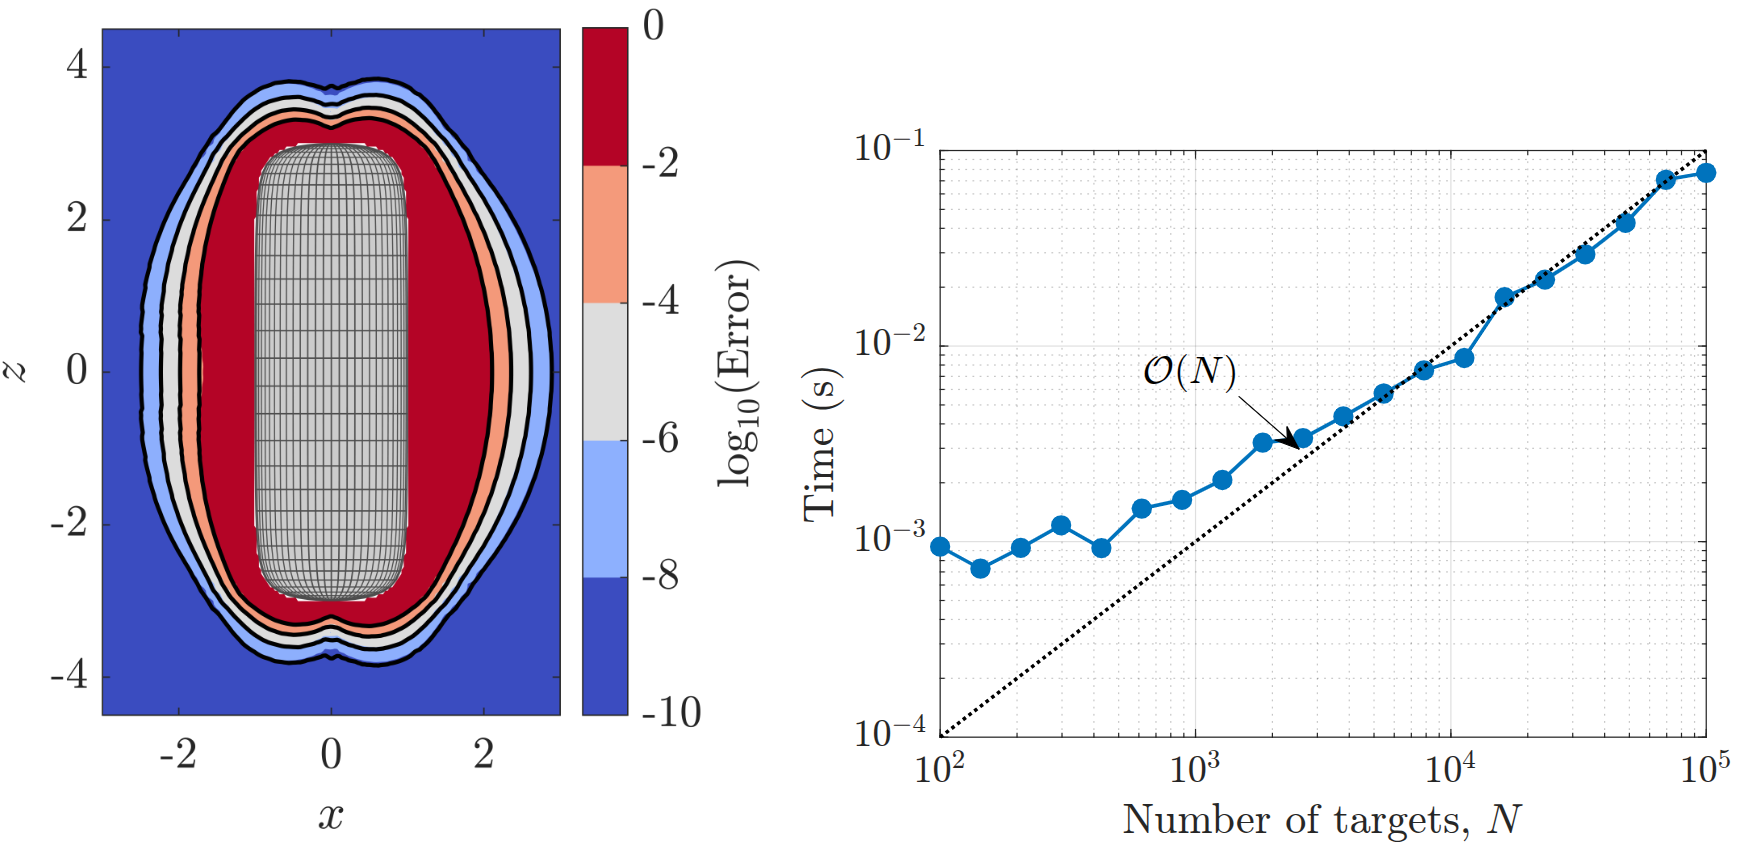
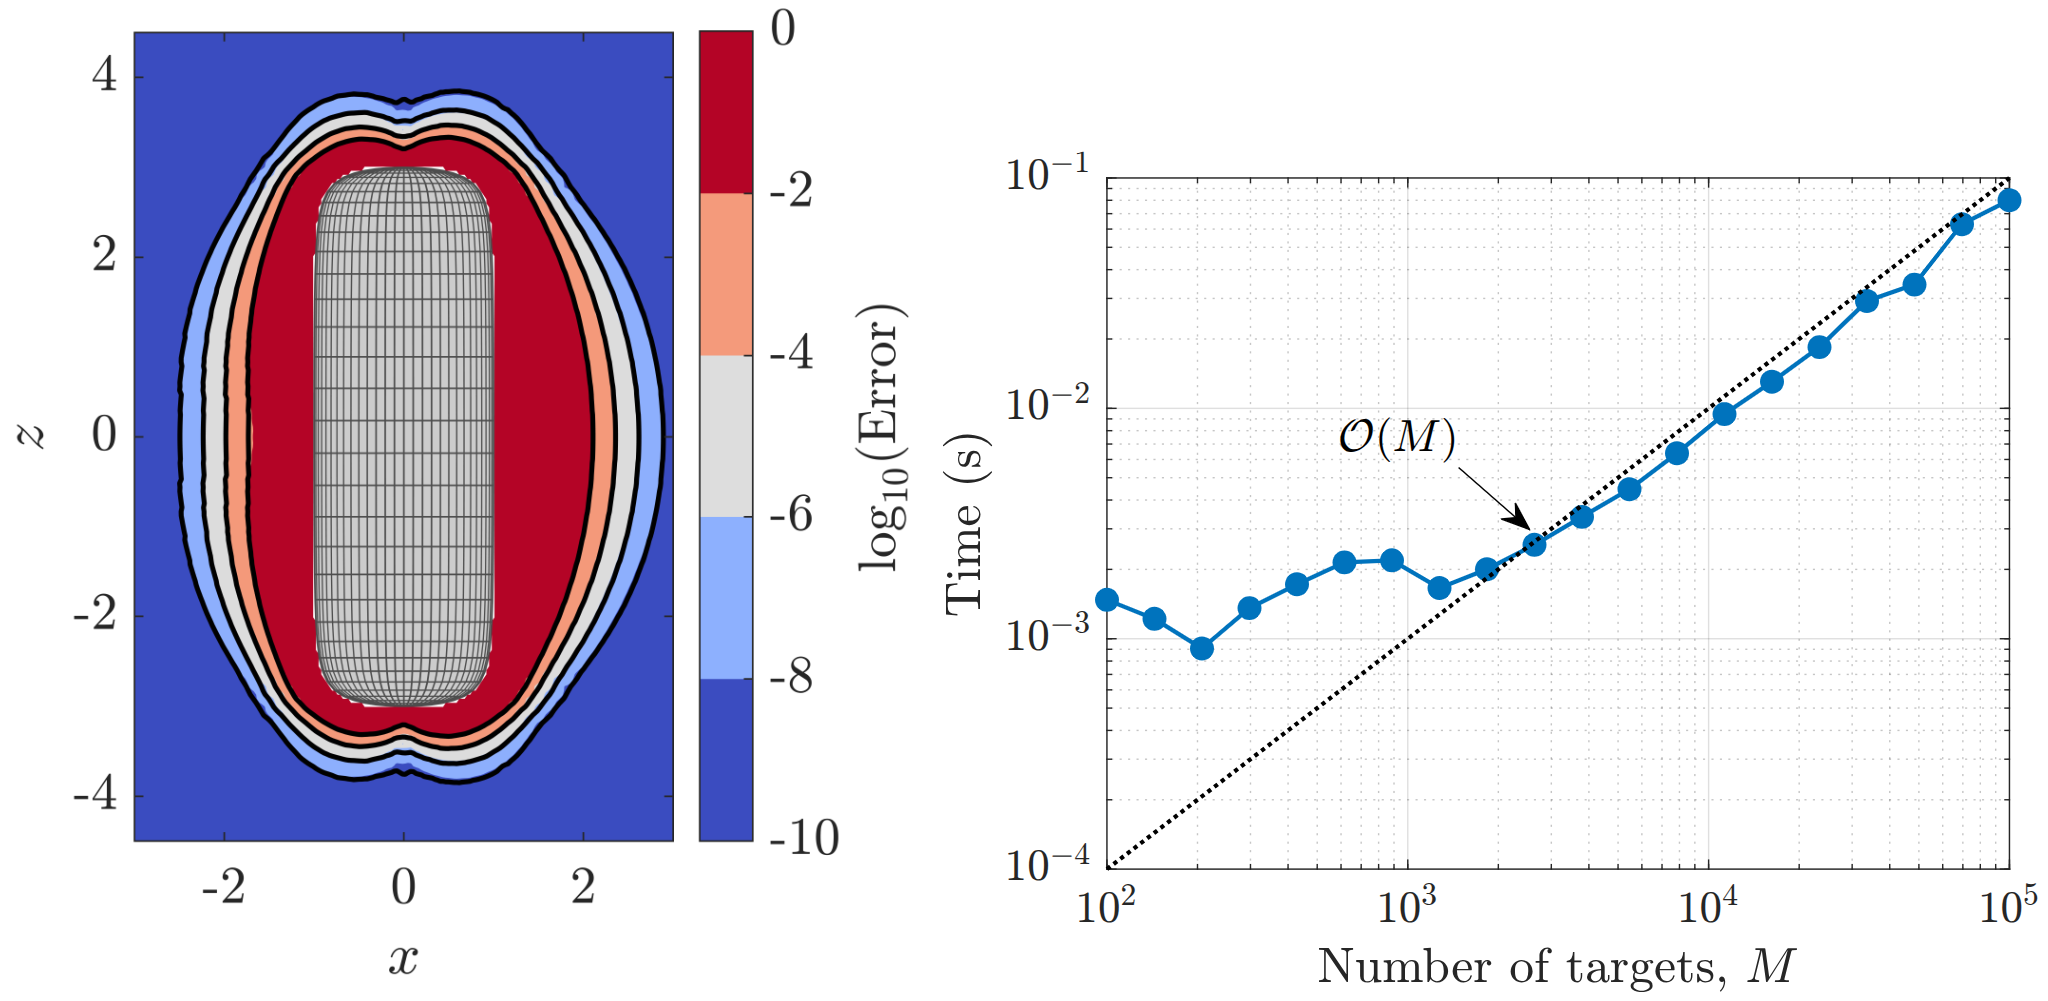
Update README

diff --git a/README.md b/README.md
@@ -1,5 +1,7 @@
 # QuadInd: Fast quadrature error indicators for layer potentials defined on axisymmetric geometries
 
+[![DOI](https://zenodo.org/badge/DOI/10.5281/zenodo.22675420.svg)](https://doi.org/10.5281/zenodo.22675420)
+
 **QuadInd** is a software package written in MATLAB for rapidly evaluating quadrature error indicators for layer potentials on axisymmetric surfaces. The indicators help determine whether a target can be handled by direct quadrature or uniform upsampling, or instead requires a special quadrature method.
 
 The figure below shows QuadInd applied to the Stokes double layer potential on a capsule-shaped particle. The predicted error contours in black closely follow the measured quadrature error shown in color (left), while evaluating the indicators is inexpensive and scales linearly with the number of targets (right).
@@ -85,10 +87,10 @@ The legacy implementation is archived for reference; see [legacy/README.md](lega
 
 If you find this code useful in your research, please cite the following works:
 
-* Our paper. TODO.
+* Our paper.
 * L. af Klinteberg, C. Sorgentone, and A.-K. Tornberg, *Quadrature error estimates for layer potentials evaluated near curved surfaces in three dimensions*, Computers & Mathematics with Applications, 111 (2022), pp. 1–19, https://doi.org/10.1016/j.camwa.2022.02.001.
 * C. Sorgentone and A.-K. Tornberg, *Estimation of quadrature errors for layer potentials evaluated near surfaces with spherical topology*, Advances in Computational Mathematics, 49 (2023), article 87, https://doi.org/10.1007/s10444-023-10083-7.
 
 The software itself is also archived on Zenodo and can be cited as:
 
-* TODO
+* D. Krantz and P. Matharu, *davidkrantz/QuadInd: v0.0.1*, Sep. 2026, https://doi.org/10.5281/zenodo.22675421.
